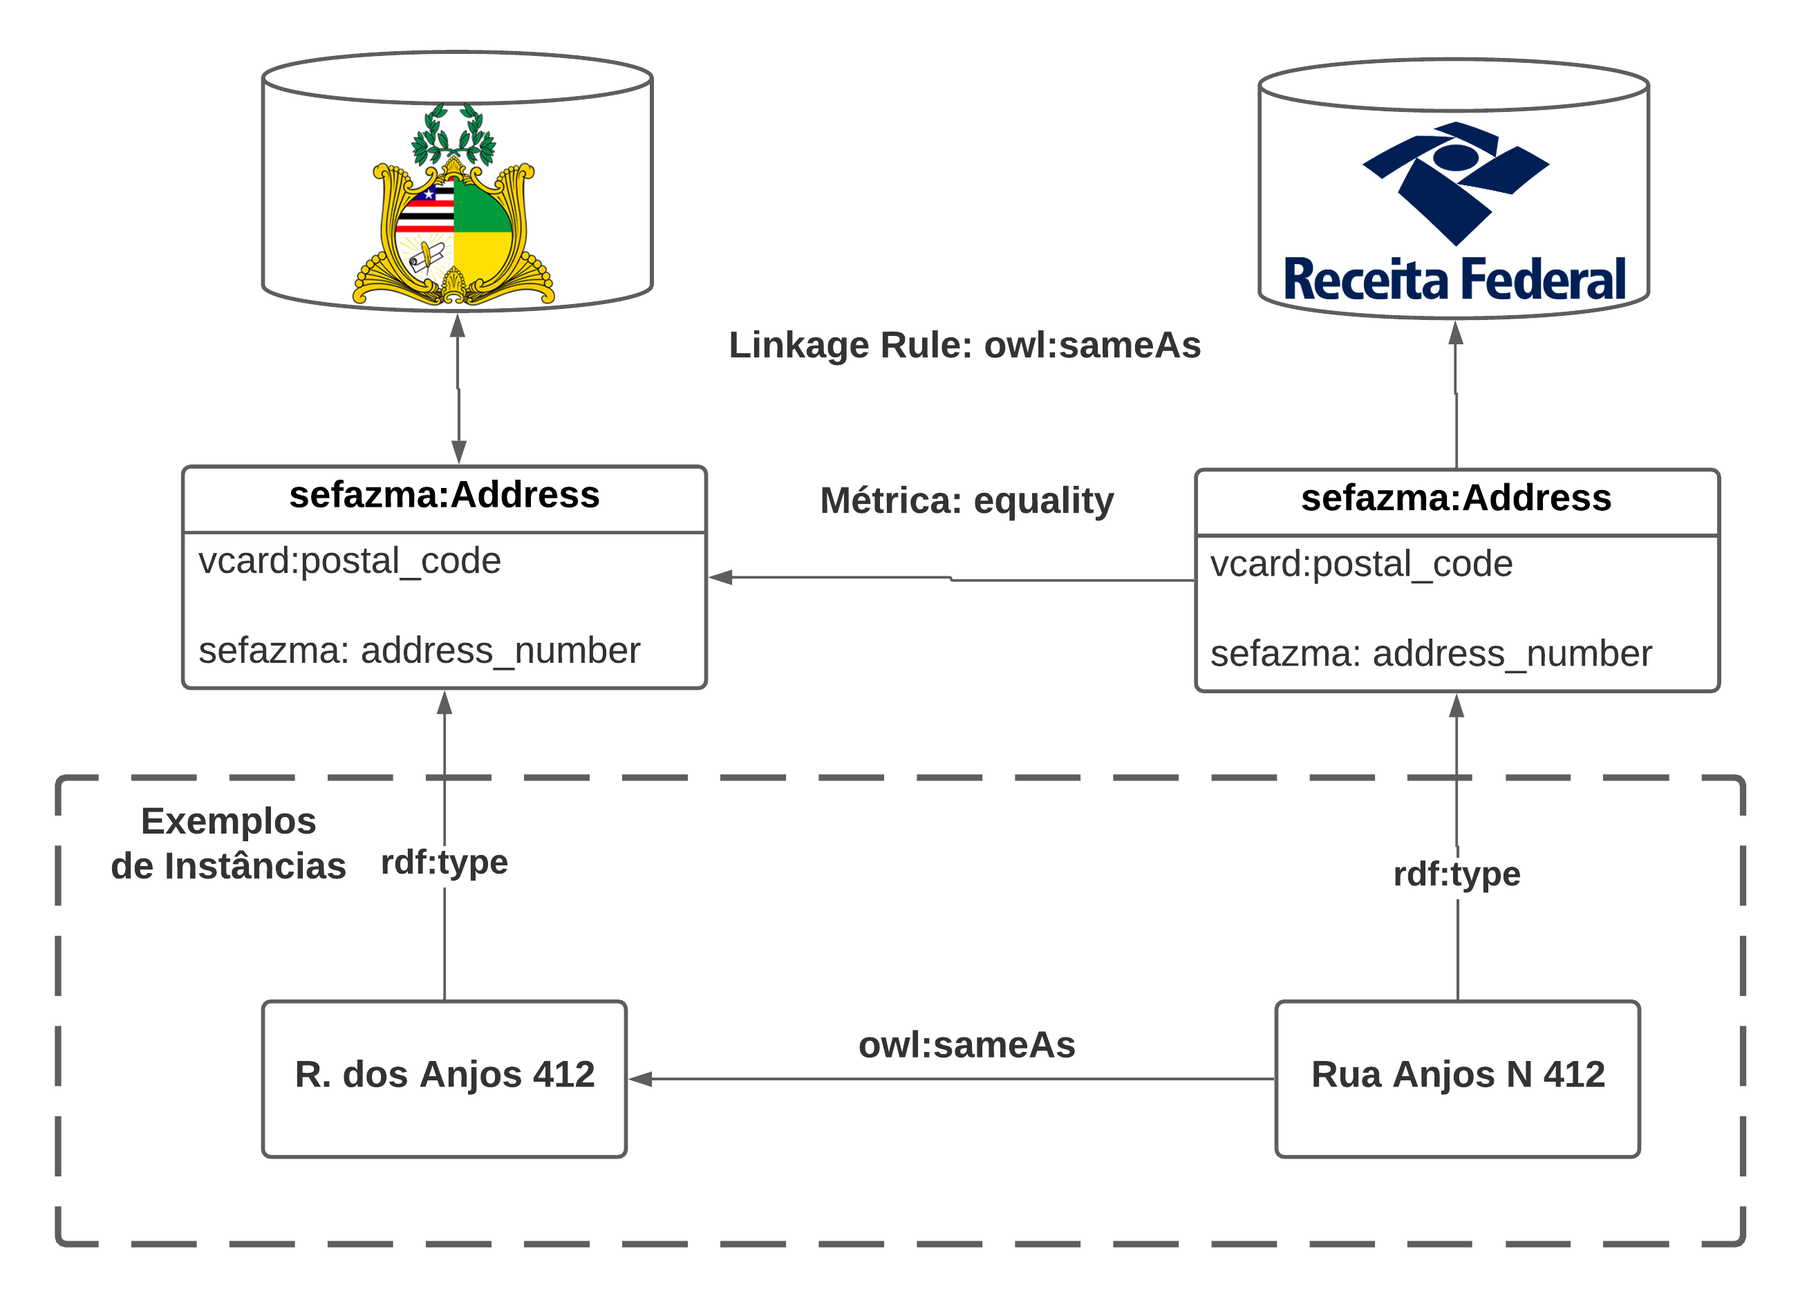
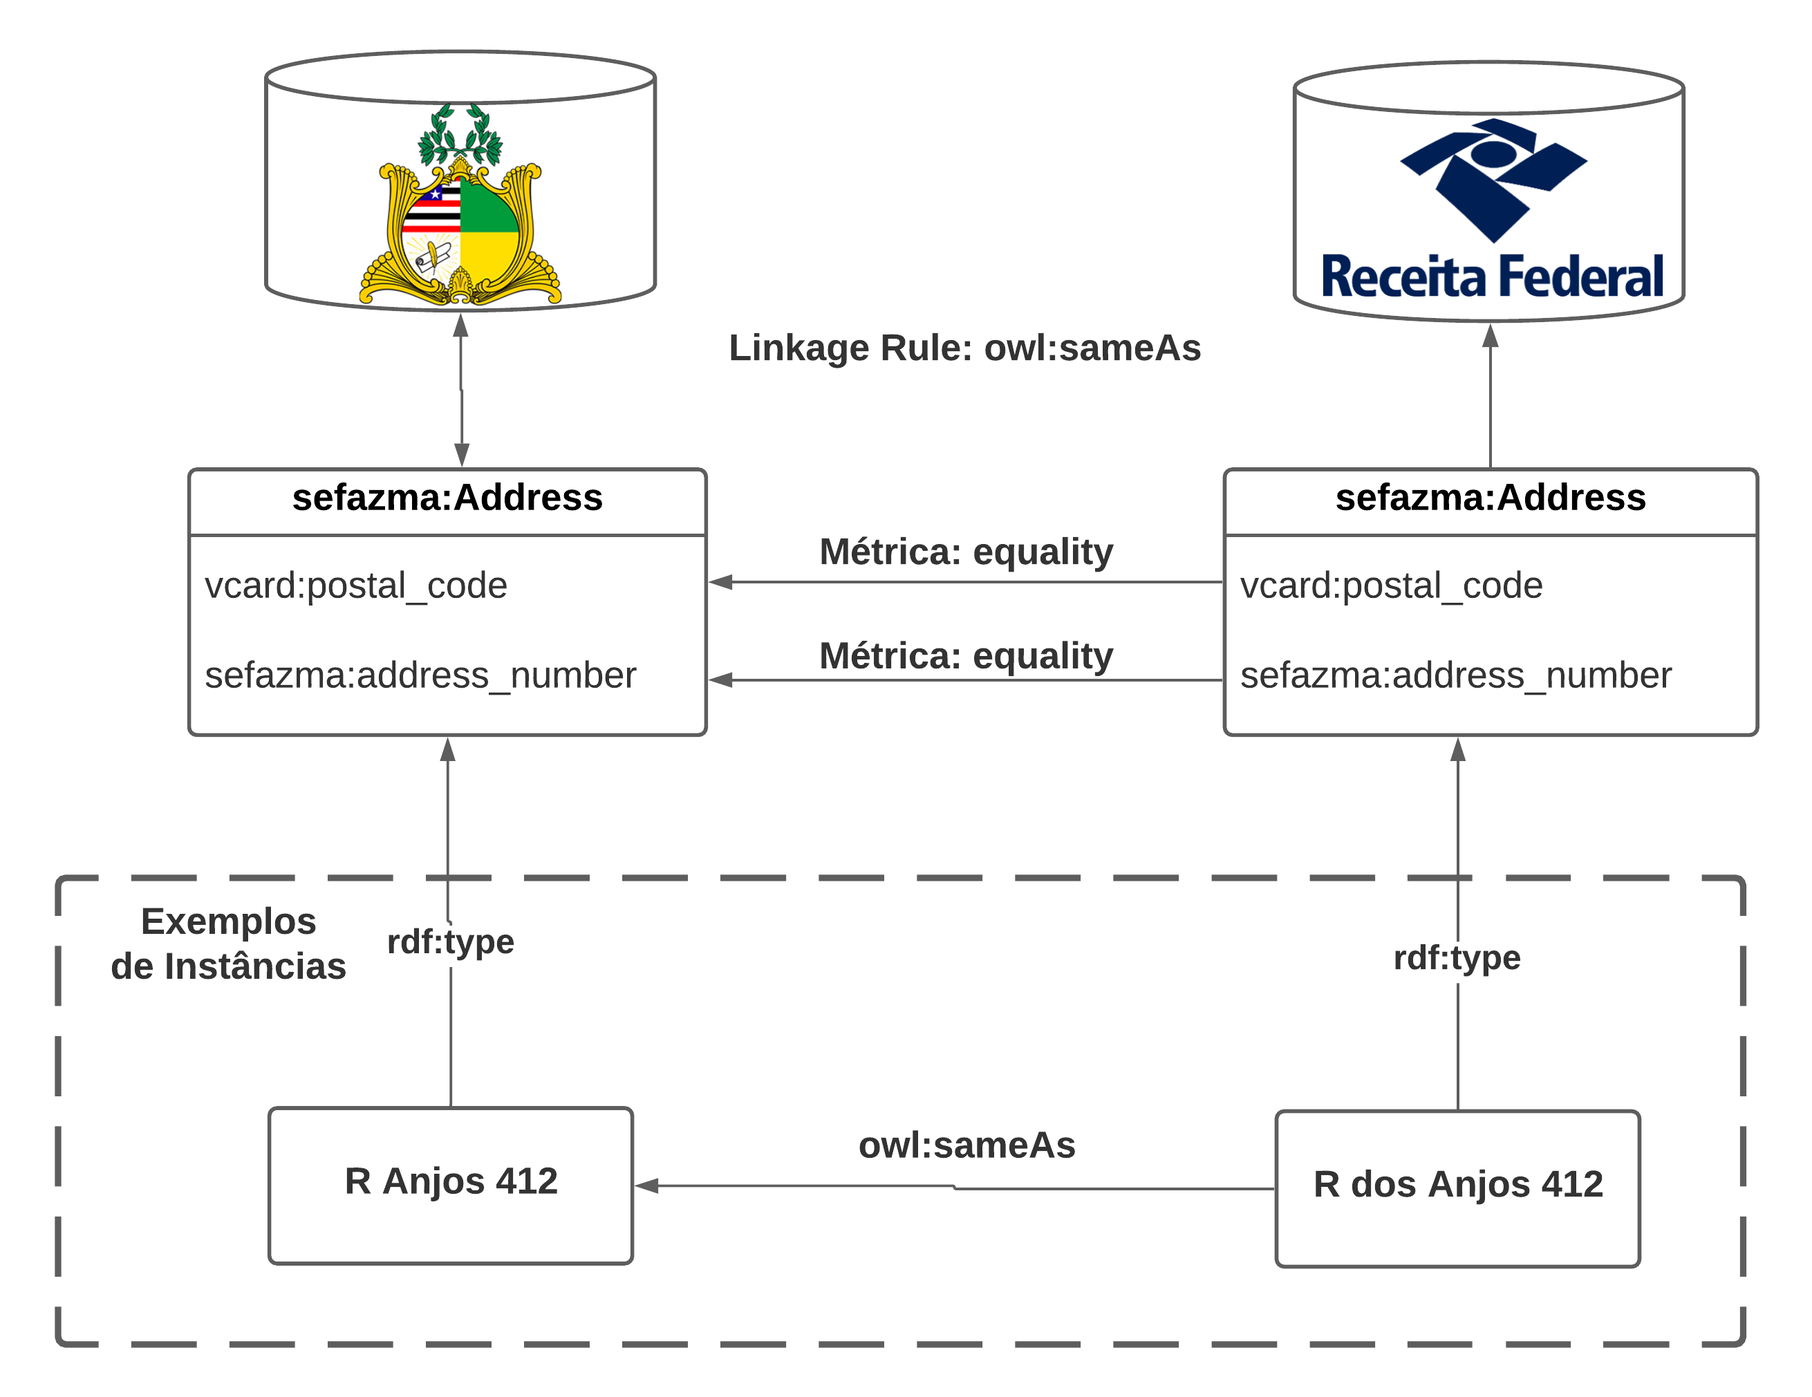
Added sefaz rfb linkage rule page

diff --git a/links_cadastro_rfb.html b/links_cadastro_rfb.html
@@ -506,36 +506,22 @@ img.emoji {
                     <div class="elementor-text-editor elementor-clearfix">
 
 <center>
-<a target="_"><img width="200" height="200" src = "images/Ibge.png"/></a>
+<a target="_"><img width="200" height="200" src = "images/receita.png"/></a>
 </br></br>
-<h1 style="color: #1d638f;">Regras de Linkage RFB - IBGE Localização</h1>
+<h1 style="color: #1d638f;">Regras de Linkage Cadastro SEFAZ - RFB</h1>
 </center>
 </br>
-<p>A Classificação Nacional de Atividades Econômicas-CNAE é a classificação oficialmente adotada pelo Sistema Estatístico Nacional e pelos órgãos federais gestores de registros administrativos.
-
-    As estatísticas oficiais relativas a atividades econômicas estão todas referenciadas à CNAE. A transição para a versão 2.0 nas estatísticas oficiais deve ocorrer no período 2007-2012, segundo calendário pré definido. (<a target="_" href="https://concla.ibge.gov.br/documentacao/cronologia/204-concla/classificacao/por-tema/1365-cnae-2-0.html#:~:text=Descri%C3%A7%C3%A3o%3A%20A%20Classifica%C3%A7%C3%A3o%20Nacional%20de,est%C3%A3o%20todas%20referenciadas%20%C3%A0%20CNAE.">Fonte</a>)
-</p>
+<p>
+    A Receita Federal, ou Secretaria Especial da Receita Federal do Brasil, é um órgão que tem como responsabilidade a administração dos tributos federais e o controle aduaneiro, além de atuar no combate à evasão fiscal (sonegação), contrabando, descaminho, contrafação (pirataria) e tráfico de drogas, armas e animais.
     
+    Até 1 de janeiro de 2019, foi subordinada ao Ministério da Fazenda e, a partir daí, passou integrar a estrutura básica do novo Ministério da Economia do Governo Jair Bolsonaro. (<a target="_" href = "https://pt.wikipedia.org/wiki/Receita_Federal_do_Brasil">Fonte</a>)
+</p>
 </br></br>
-<p><span style="color: #1d638f;"><b>Link: City - City</b></span></p>
+<p><span style="color: #1d638f;"><b>Link: Address - Address</b></span></p>
 <center>
-    <img style="width:50vw" src = "images/links/link_rfb_location_city.png"/>
+    <img style="width:50vw" src = "images/links/link_cadastro_rfb_address.png"/>
 </center>
-<a target="_" href = "https://drive.google.com/drive/folders/1KRpqMtYQ1W5J-SrzMQ6YIqecODftDsJs">Arquivo do Link: City - City</a>
-
-</br></br></br></br>
-<p><span style="color: #1d638f;"><b>Link: Country - Country</b></span></p>
-<center>
-    <img style="width:50vw" src = "images/links/link_rfb_location_country.png"/>
-</center>
-<a target="_" href = "https://drive.google.com/drive/folders/1KRpqMtYQ1W5J-SrzMQ6YIqecODftDsJs">Arquivo do Link: Country - Contry</a>
-
-</br></br></br></br>
-<p><span style="color: #1d638f;"><b>Link: Federative Unit - Federative Unit</b></span></p>
-<center>
-    <img style="width:50vw" src = "images/links/link_rfb_location_federativeunit.png"/>
-</center>
-<a target="_" href = "https://drive.google.com/drive/folders/1KRpqMtYQ1W5J-SrzMQ6YIqecODftDsJs">Arquivo do Link: Federative Unit - Federative Unit</a>
+<a target="_" href = "https://drive.google.com/drive/folders/1KRpqMtYQ1W5J-SrzMQ6YIqecODftDsJs">Arquivo do Link: Address - Address</a>
 
 </br>
 

diff --git a/links_rfb_cadastro.html b/links_rfb_cadastro.html
@@ -337,11 +337,15 @@ img.emoji {
                                                                     </li>
                                                                 </ul>
                                                             </li>
+                                                            
                                                             <li>
                                                                 <a><span>Cadastro SEFAZ</span></a>
                                                                 <ul class="sub-menu">
                                                                     <li>
                                                                         <a href="./links_cadastro_db.html"><span>Cadastro SEFAZ - DBPedia</span></a> 
+                                                                    </li>
+                                                                    <li>
+                                                                        <a href="./links_cadastro_rfb.html"><span>Cadastro SEFAZ - RFB</span></a> 
                                                                     </li>
                                                                     <li>
                                                                         <a href="./links_cadastro_cnae.html"><span>Cadastro SEFAZ - IBGE CNAE</span></a> 
@@ -512,11 +516,11 @@ img.emoji {
 </p>
     
 </br></br>
-<p><span style="color: #1d638f;"><b>Link: Address - Adress</b></span></p>
+<p><span style="color: #1d638f;"><b>Link: Address - Address</b></span></p>
 <center>
-    <img style="width:50vw" src = "images/links/link_cadastro_rfb_address.png"/>
+    <img style="width:50vw" src = "images/links/link_rfb_cadastro_address.png"/>
 </center>
-<a target="_" href = "https://drive.google.com/drive/folders/1KRpqMtYQ1W5J-SrzMQ6YIqecODftDsJs">Arquivo do Link: Address - Adress</a>
+<a target="_" href = "https://drive.google.com/drive/folders/1KRpqMtYQ1W5J-SrzMQ6YIqecODftDsJs">Arquivo do Link: Address - Address</a>
 
 </br></br></br></br>
 <p><span style="color: #1d638f;"><b>Link: Establishment - Establishment</b></span></p>

diff --git a/aplicacoes.html b/aplicacoes.html
@@ -336,11 +336,15 @@ img.emoji {
                                                                     </li>
                                                                 </ul>
                                                             </li>
+                                                            
                                                             <li>
                                                                 <a><span>Cadastro SEFAZ</span></a>
                                                                 <ul class="sub-menu">
                                                                     <li>
                                                                         <a href="./links_cadastro_db.html"><span>Cadastro SEFAZ - DBPedia</span></a> 
+                                                                    </li>
+                                                                    <li>
+                                                                        <a href="./links_cadastro_rfb.html"><span>Cadastro SEFAZ - RFB</span></a> 
                                                                     </li>
                                                                     <li>
                                                                         <a href="./links_cadastro_cnae.html"><span>Cadastro SEFAZ - IBGE CNAE</span></a> 

diff --git a/cadsefaz.html b/cadsefaz.html
@@ -331,11 +331,15 @@ img.emoji {
                                                                     </li>
                                                                 </ul>
                                                             </li>
+                                                            
                                                             <li>
                                                                 <a><span>Cadastro SEFAZ</span></a>
                                                                 <ul class="sub-menu">
                                                                     <li>
                                                                         <a href="./links_cadastro_db.html"><span>Cadastro SEFAZ - DBPedia</span></a> 
+                                                                    </li>
+                                                                    <li>
+                                                                        <a href="./links_cadastro_rfb.html"><span>Cadastro SEFAZ - RFB</span></a> 
                                                                     </li>
                                                                     <li>
                                                                         <a href="./links_cadastro_cnae.html"><span>Cadastro SEFAZ - IBGE CNAE</span></a> 

diff --git a/consultas.html b/consultas.html
@@ -330,11 +330,15 @@ img.emoji {
                                                                     </li>
                                                                 </ul>
                                                             </li>
+                                                            
                                                             <li>
                                                                 <a><span>Cadastro SEFAZ</span></a>
                                                                 <ul class="sub-menu">
                                                                     <li>
                                                                         <a href="./links_cadastro_db.html"><span>Cadastro SEFAZ - DBPedia</span></a> 
+                                                                    </li>
+                                                                    <li>
+                                                                        <a href="./links_cadastro_rfb.html"><span>Cadastro SEFAZ - RFB</span></a> 
                                                                     </li>
                                                                     <li>
                                                                         <a href="./links_cadastro_cnae.html"><span>Cadastro SEFAZ - IBGE CNAE</span></a> 

diff --git a/consultas_facetadas.html b/consultas_facetadas.html
@@ -331,11 +331,15 @@ img.emoji {
                                                                     </li>
                                                                 </ul>
                                                             </li>
+                                                            
                                                             <li>
                                                                 <a><span>Cadastro SEFAZ</span></a>
                                                                 <ul class="sub-menu">
                                                                     <li>
                                                                         <a href="./links_cadastro_db.html"><span>Cadastro SEFAZ - DBPedia</span></a> 
+                                                                    </li>
+                                                                    <li>
+                                                                        <a href="./links_cadastro_rfb.html"><span>Cadastro SEFAZ - RFB</span></a> 
                                                                     </li>
                                                                     <li>
                                                                         <a href="./links_cadastro_cnae.html"><span>Cadastro SEFAZ - IBGE CNAE</span></a> 

diff --git a/consultas_sparql.html b/consultas_sparql.html
@@ -330,11 +330,15 @@ img.emoji {
                                                                     </li>
                                                                 </ul>
                                                             </li>
+                                                            
                                                             <li>
                                                                 <a><span>Cadastro SEFAZ</span></a>
                                                                 <ul class="sub-menu">
                                                                     <li>
                                                                         <a href="./links_cadastro_db.html"><span>Cadastro SEFAZ - DBPedia</span></a> 
+                                                                    </li>
+                                                                    <li>
+                                                                        <a href="./links_cadastro_rfb.html"><span>Cadastro SEFAZ - RFB</span></a> 
                                                                     </li>
                                                                     <li>
                                                                         <a href="./links_cadastro_cnae.html"><span>Cadastro SEFAZ - IBGE CNAE</span></a> 

diff --git a/fontes_publicadas.html b/fontes_publicadas.html
@@ -330,11 +330,15 @@ img.emoji {
                                                                     </li>
                                                                 </ul>
                                                             </li>
+                                                            
                                                             <li>
                                                                 <a><span>Cadastro SEFAZ</span></a>
                                                                 <ul class="sub-menu">
                                                                     <li>
                                                                         <a href="./links_cadastro_db.html"><span>Cadastro SEFAZ - DBPedia</span></a> 
+                                                                    </li>
+                                                                    <li>
+                                                                        <a href="./links_cadastro_rfb.html"><span>Cadastro SEFAZ - RFB</span></a> 
                                                                     </li>
                                                                     <li>
                                                                         <a href="./links_cadastro_cnae.html"><span>Cadastro SEFAZ - IBGE CNAE</span></a> 

diff --git a/ibge.html b/ibge.html
@@ -330,11 +330,15 @@ img.emoji {
                                                                     </li>
                                                                 </ul>
                                                             </li>
+                                                            
                                                             <li>
                                                                 <a><span>Cadastro SEFAZ</span></a>
                                                                 <ul class="sub-menu">
                                                                     <li>
                                                                         <a href="./links_cadastro_db.html"><span>Cadastro SEFAZ - DBPedia</span></a> 
+                                                                    </li>
+                                                                    <li>
+                                                                        <a href="./links_cadastro_rfb.html"><span>Cadastro SEFAZ - RFB</span></a> 
                                                                     </li>
                                                                     <li>
                                                                         <a href="./links_cadastro_cnae.html"><span>Cadastro SEFAZ - IBGE CNAE</span></a> 

diff --git a/ibge_cnae.html b/ibge_cnae.html
@@ -330,11 +330,15 @@ img.emoji {
                                                                     </li>
                                                                 </ul>
                                                             </li>
+                                                            
                                                             <li>
                                                                 <a><span>Cadastro SEFAZ</span></a>
                                                                 <ul class="sub-menu">
                                                                     <li>
                                                                         <a href="./links_cadastro_db.html"><span>Cadastro SEFAZ - DBPedia</span></a> 
+                                                                    </li>
+                                                                    <li>
+                                                                        <a href="./links_cadastro_rfb.html"><span>Cadastro SEFAZ - RFB</span></a> 
                                                                     </li>
                                                                     <li>
                                                                         <a href="./links_cadastro_cnae.html"><span>Cadastro SEFAZ - IBGE CNAE</span></a> 

diff --git a/ibge_location.html b/ibge_location.html
@@ -331,11 +331,15 @@ img.emoji {
                                                                     </li>
                                                                 </ul>
                                                             </li>
+                                                            
                                                             <li>
                                                                 <a><span>Cadastro SEFAZ</span></a>
                                                                 <ul class="sub-menu">
                                                                     <li>
                                                                         <a href="./links_cadastro_db.html"><span>Cadastro SEFAZ - DBPedia</span></a> 
+                                                                    </li>
+                                                                    <li>
+                                                                        <a href="./links_cadastro_rfb.html"><span>Cadastro SEFAZ - RFB</span></a> 
                                                                     </li>
                                                                     <li>
                                                                         <a href="./links_cadastro_cnae.html"><span>Cadastro SEFAZ - IBGE CNAE</span></a> 

diff --git a/index.html b/index.html
@@ -341,11 +341,15 @@ img.emoji {
                                                                     </li>
                                                                 </ul>
                                                             </li>
+                                                            
                                                             <li>
                                                                 <a><span>Cadastro SEFAZ</span></a>
                                                                 <ul class="sub-menu">
                                                                     <li>
                                                                         <a href="./links_cadastro_db.html"><span>Cadastro SEFAZ - DBPedia</span></a> 
+                                                                    </li>
+                                                                    <li>
+                                                                        <a href="./links_cadastro_rfb.html"><span>Cadastro SEFAZ - RFB</span></a> 
                                                                     </li>
                                                                     <li>
                                                                         <a href="./links_cadastro_cnae.html"><span>Cadastro SEFAZ - IBGE CNAE</span></a> 
